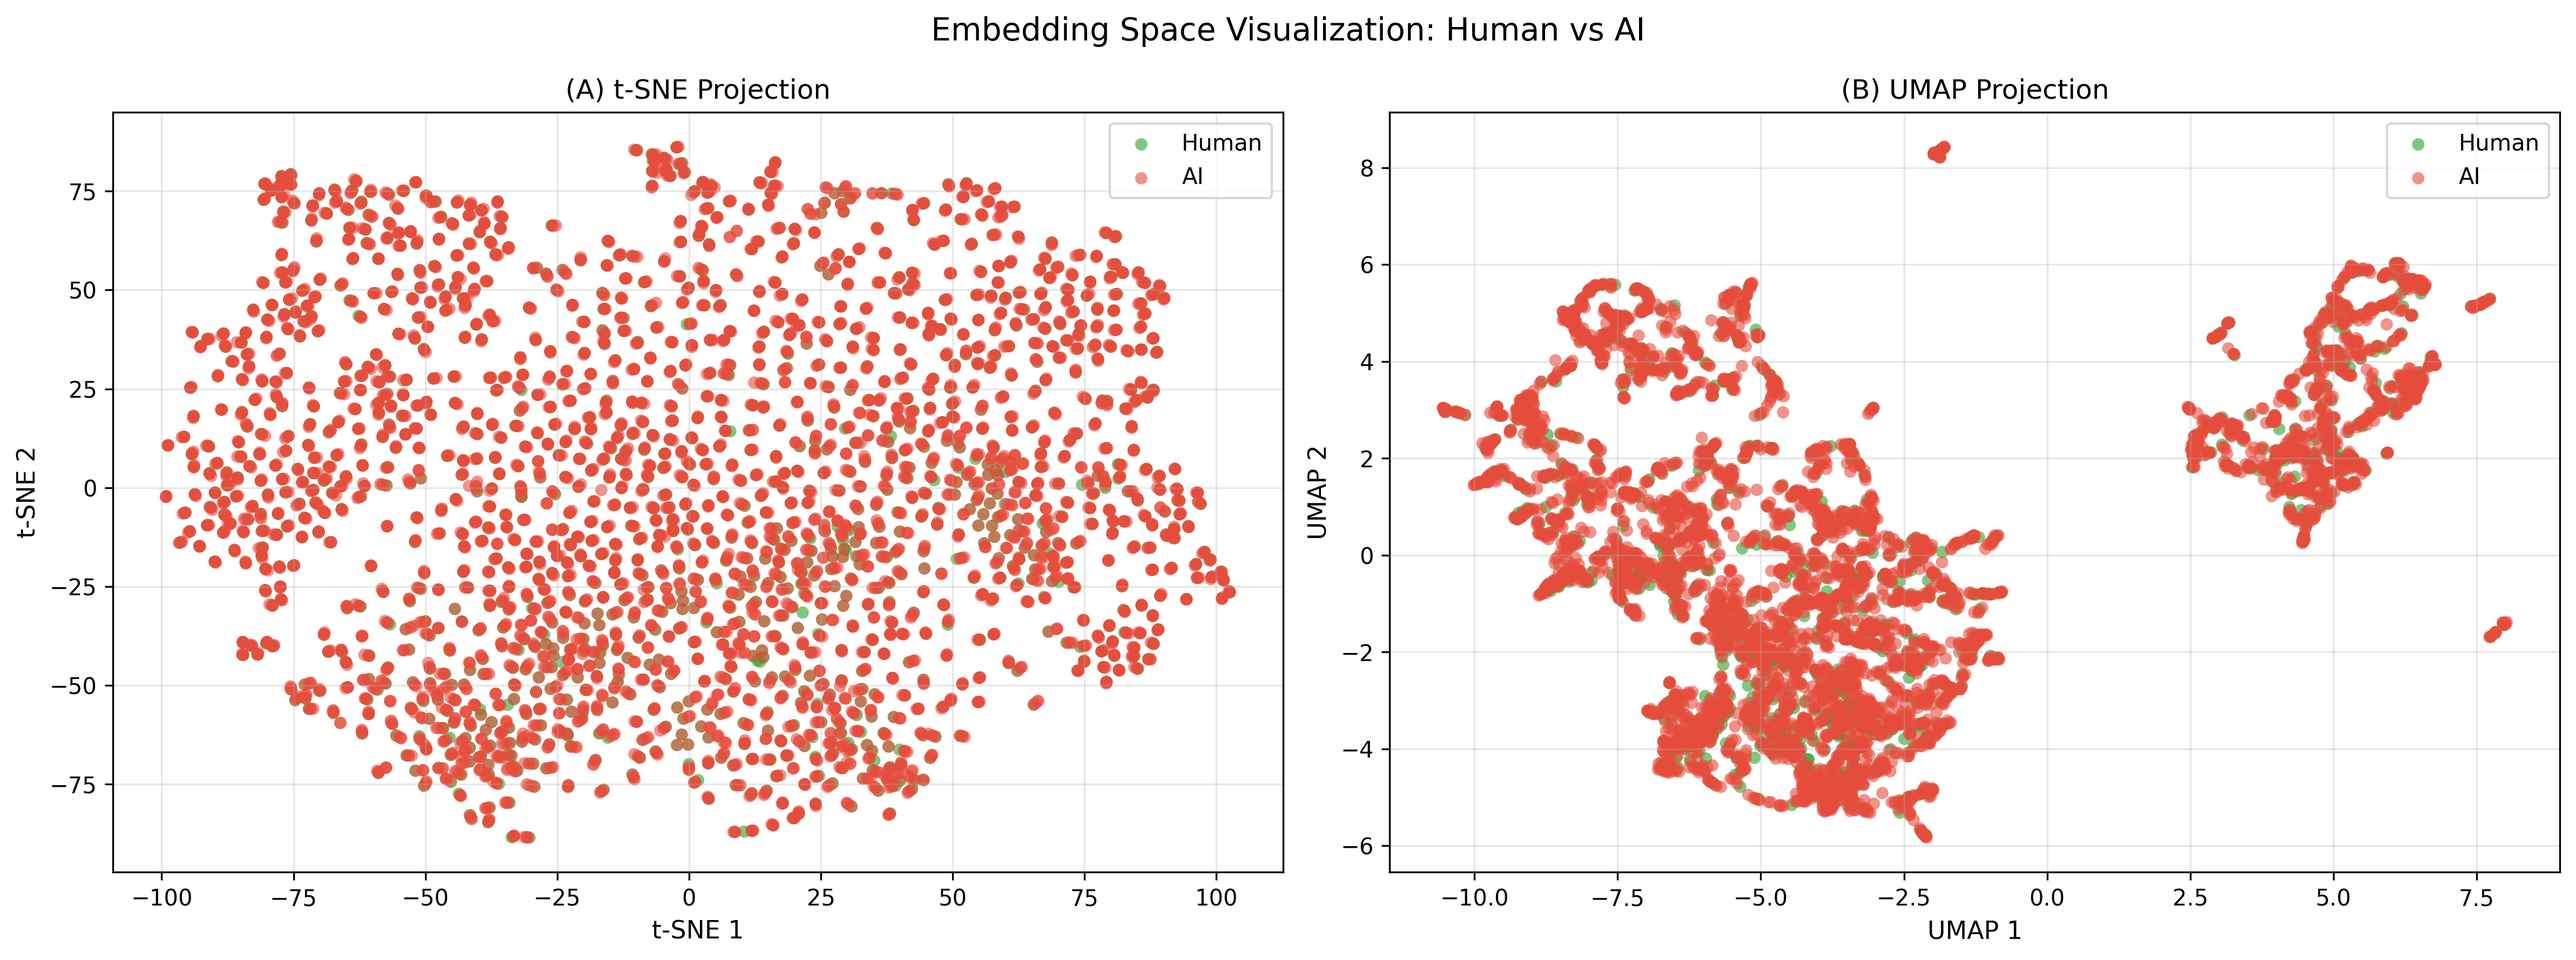
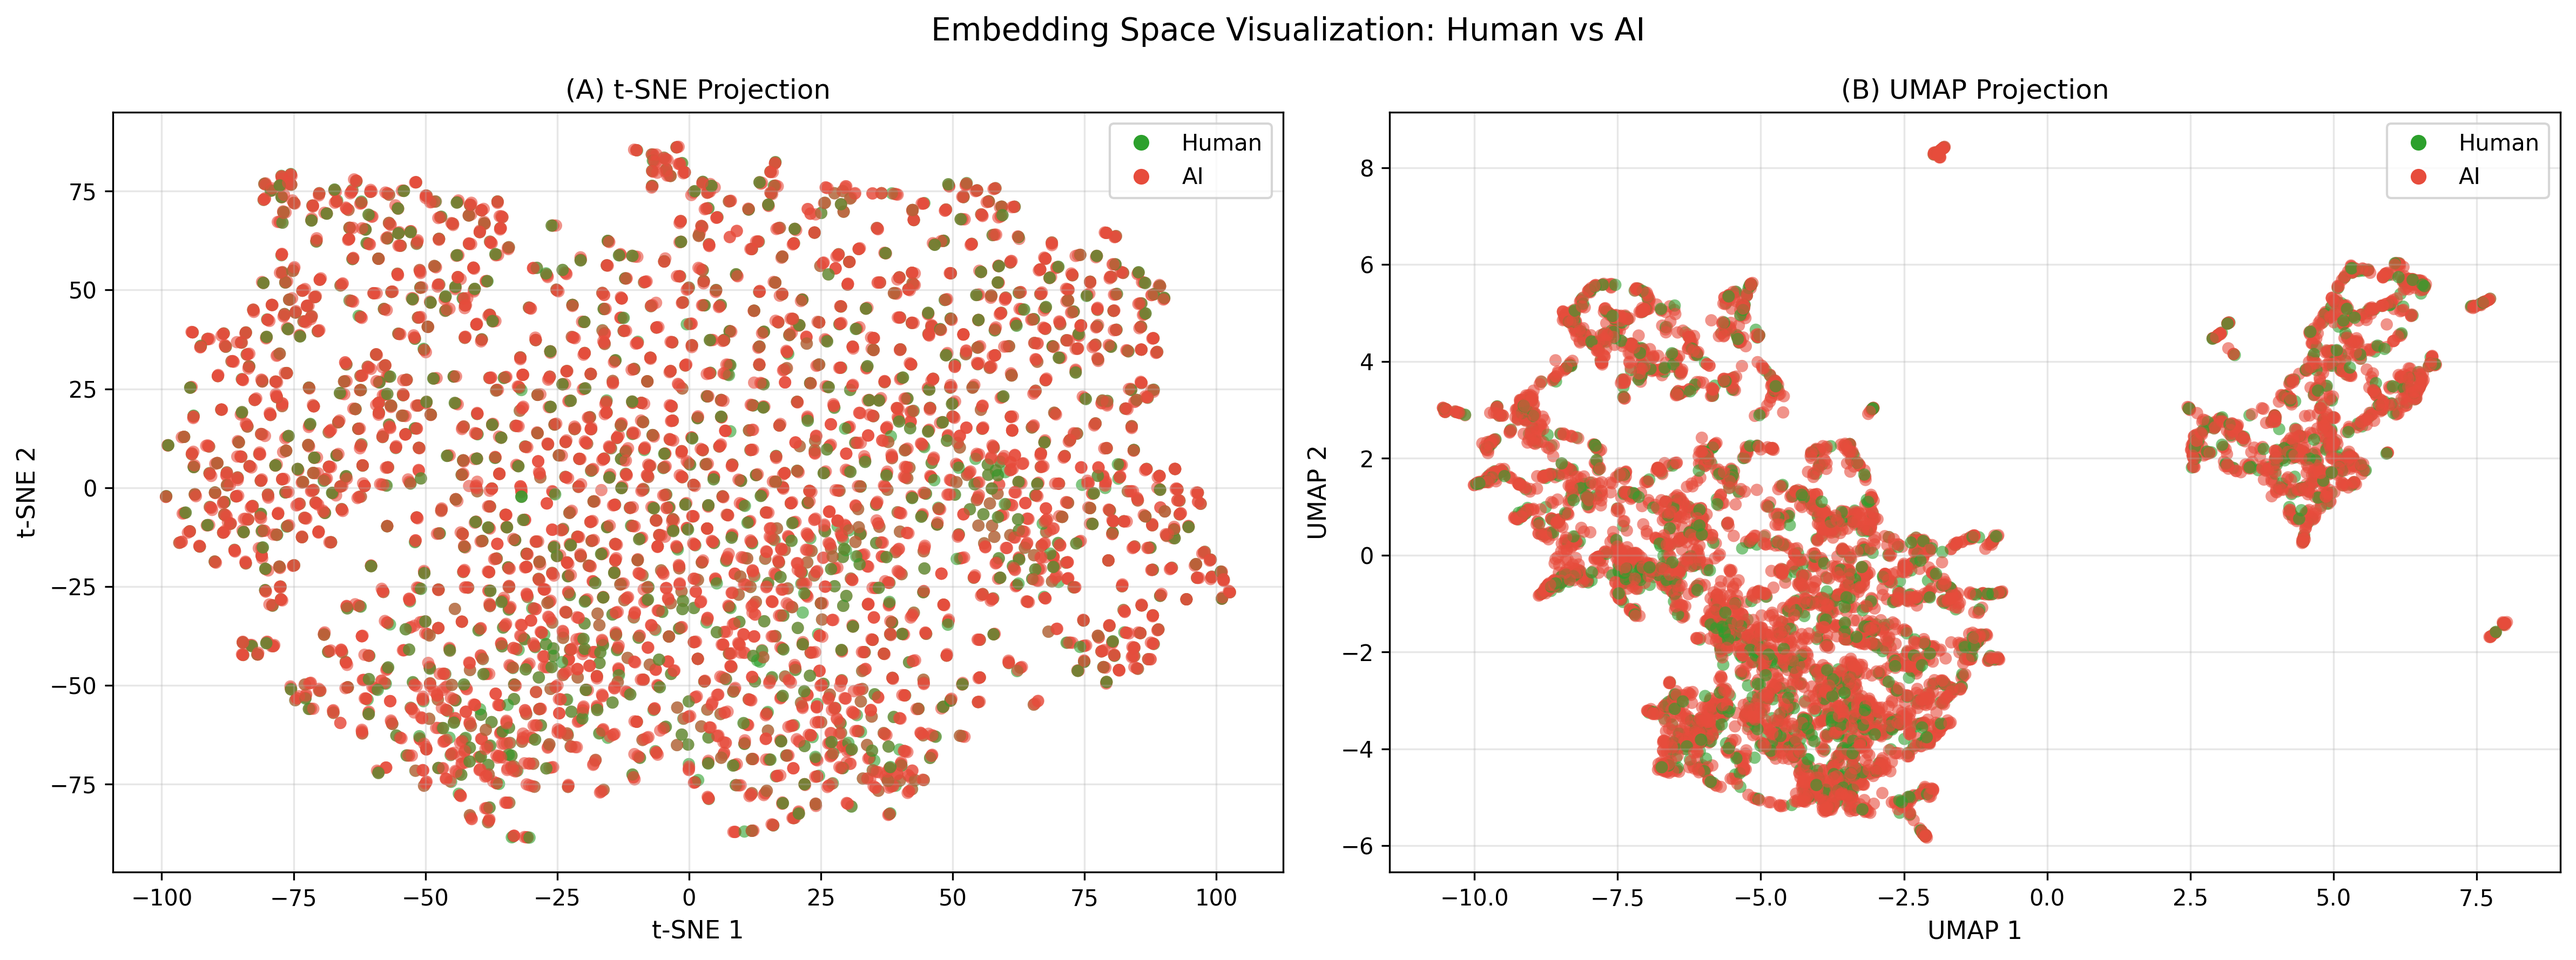
Fix Figure 10 overplotting: seeded random z-order so human chunks are visible (neither class occluded); add reproducible plot_embedding_projection.py

diff --git a/src/plot_embedding_projection.py b/src/plot_embedding_projection.py
@@ -1,0 +1,114 @@
+"""Reproduce the Human-vs-AI t-SNE/UMAP composite (Figure 10) with a corrected
+draw order.
+
+The original analysis (`Ancient_Greek_embeddings_analysis.py`,
+`09_tsne_umap_composite.png`) plots the Human points first and the AI points on
+top. Because AI chunks outnumber Human chunks 4:1 (each human chunk is rewritten
+by 2 systems x 2 prompts), the dense AI layer visually occludes the human points.
+This script recomputes the *same* projection (identical reducers, parameters and
+seed) and draws all points in a single **seeded random z-order**, so neither class
+systematically occludes the other and the local colour mix reflects the true
+~80/20 (AI/Human) class proportion.
+
+Reducers (matching the legacy analysis exactly):
+    t-SNE: perplexity=30, max_iter=1000, random_state=42
+    UMAP:  n_neighbors=15, min_dist=0.1, random_state=42
+
+Usage:
+    python src/plot_embedding_projection.py \
+        --embeddings data/embeddings/greek_document_embeddings.csv \
+        --out output/analysis/24_Embeddings_Analysis/09_tsne_umap_composite.png
+"""
+from __future__ import annotations
+
+import argparse
+from pathlib import Path
+
+import numpy as np
+import pandas as pd
+import matplotlib
+matplotlib.use("Agg")
+import matplotlib.pyplot as plt
+from matplotlib.lines import Line2D
+from sklearn.manifold import TSNE
+
+DPI = 300
+HUMAN_COLOR = "#2ca02c"
+AI_COLOR = "#e74c3c"
+
+
+def _legend_handles():
+    return [
+        Line2D([0], [0], marker="o", color="w", markerfacecolor=HUMAN_COLOR,
+               markersize=8, label="Human"),
+        Line2D([0], [0], marker="o", color="w", markerfacecolor=AI_COLOR,
+               markersize=8, label="AI"),
+    ]
+
+
+def _scatter_shuffled(ax, coords, labels, order):
+    """Draw all points in a single seeded random z-order (no class on top)."""
+    colors = np.where(labels == "Human", HUMAN_COLOR, AI_COLOR)
+    ax.scatter(coords[order, 0], coords[order, 1], c=colors[order],
+               s=30, alpha=0.6, edgecolors="none")
+    ax.legend(handles=_legend_handles(), loc="best", fontsize=10)
+
+
+def run(embeddings_csv: Path, out_png: Path, perplexity: int = 30,
+        random_state: int = 42) -> Path:
+    df = pd.read_csv(embeddings_csv)
+    we_cols = [c for c in df.columns if c.startswith("WE")]
+    X = df[we_cols].values
+    labels = df["Category4"].values
+    n_human = int((labels == "Human").sum())
+    n_ai = int((labels == "AI").sum())
+    print(f"Loaded {len(df)} chunks ({n_human} Human, {n_ai} AI) x {len(we_cols)} dims")
+
+    print("  computing t-SNE...")
+    tsne = TSNE(n_components=2, perplexity=perplexity, random_state=random_state,
+                max_iter=1000, verbose=0)
+    tsne_coords = tsne.fit_transform(X)
+
+    print("  computing UMAP...")
+    from umap import UMAP
+    umap = UMAP(n_components=2, random_state=random_state, n_neighbors=15,
+                min_dist=0.1)
+    umap_coords = umap.fit_transform(X)
+
+    # Single seeded permutation shared by both panels for reproducible z-order.
+    order = np.random.default_rng(random_state).permutation(len(labels))
+
+    fig, axes = plt.subplots(1, 2, figsize=(16, 6))
+    _scatter_shuffled(axes[0], tsne_coords, labels, order)
+    axes[0].set_xlabel("t-SNE 1", fontsize=11)
+    axes[0].set_ylabel("t-SNE 2", fontsize=11)
+    axes[0].set_title("(A) t-SNE Projection", fontsize=12)
+    axes[0].grid(True, alpha=0.3)
+
+    _scatter_shuffled(axes[1], umap_coords, labels, order)
+    axes[1].set_xlabel("UMAP 1", fontsize=11)
+    axes[1].set_ylabel("UMAP 2", fontsize=11)
+    axes[1].set_title("(B) UMAP Projection", fontsize=12)
+    axes[1].grid(True, alpha=0.3)
+
+    plt.suptitle("Embedding Space Visualization: Human vs AI", fontsize=14)
+    plt.tight_layout()
+    out_png.parent.mkdir(parents=True, exist_ok=True)
+    fig.savefig(out_png, dpi=DPI, bbox_inches="tight")
+    plt.close(fig)
+    print(f"  wrote {out_png}")
+    return out_png
+
+
+def main() -> None:
+    ap = argparse.ArgumentParser()
+    ap.add_argument("--embeddings", required=True)
+    ap.add_argument("--out", required=True)
+    ap.add_argument("--perplexity", type=int, default=30)
+    ap.add_argument("--random-state", type=int, default=42)
+    args = ap.parse_args()
+    run(Path(args.embeddings), Path(args.out), args.perplexity, args.random_state)
+
+
+if __name__ == "__main__":
+    main()
